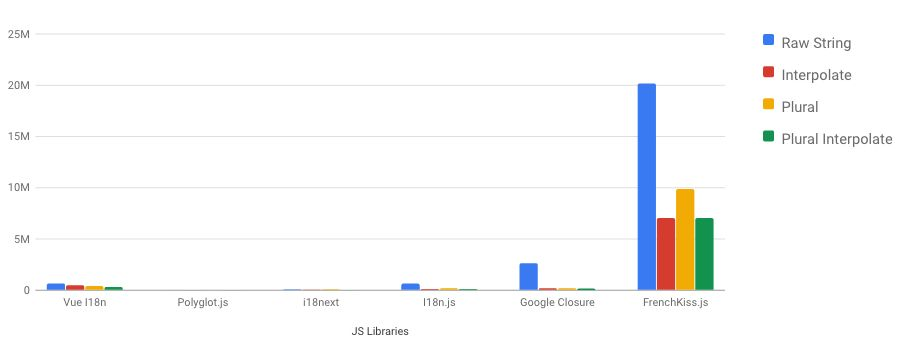
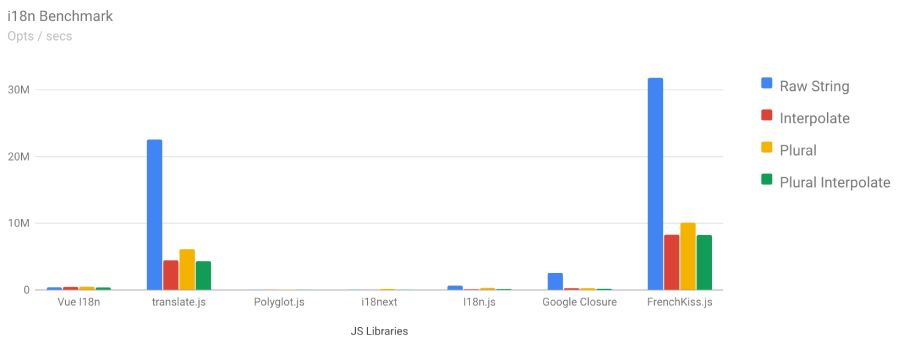
⚡  Improve table resolution performance
Thanks to #10

diff --git a/benchmark/result.html b/benchmark/result.html
@@ -16,7 +16,7 @@
   });
 
   google.charts.setOnLoadCallback(function() {
-    var data = google.visualization.arrayToDataTable([["JS Libraries","Raw String","Interpolate","Plural","Plural Interpolate"],["Vue I18n",937597.9691549347,621520.0905786989,796980.197485886,558772.3790447591],["translate.js",45628718.817707874,5078042.057101556,9887878.853139093,5195905.523545258],["Polyglot.js",37437.9866361863,32261.51126711705,35065.78723919533,32867.778490074386],["i18next",98762.52861366958,44846.718042469154,158507.1685834369,53331.03853381327],["I18n.js",933103.1220930708,140006.0411761704,424632.24457360385,150664.26550750234],["Google Closure",2625947.265724307,313545.32987506065,294208.2944537806,185298.38990789047],["FrenchKiss.js",28974747.66838699,10332328.059471618,13050900.347432066,9512977.148954853]]);
+    var data = google.visualization.arrayToDataTable([["JS Libraries","Raw String","Interpolate","Plural","Plural Interpolate"],["Vue I18n",462765.6182894607,533288.8007898631,571266.8775808453,443326.1475785786],["translate.js",22615973.167931475,4521676.532148845,6172038.016953489,4393833.074487673],["Polyglot.js",26416.511475684798,26292.866779009746,29060.199426648855,27350.94675397183],["i18next",73150.08665121584,37800.11059008172,133349.36795169843,38134.818818904256],["I18n.js",720800.3138867202,107974.0440440505,378258.25917576195,118317.36221304856],["Google Closure",2615583.874711804,338832.65385270974,269199.3921624748,173446.9254669773],["FrenchKiss.js",31856730.168599278,8364874.234366808,10159441.144196827,8305639.6259251945]]);
 
     new google.charts.Bar(document.body).draw(data, {
       chart: {

diff --git a/src/frenchkiss.js b/src/frenchkiss.js
@@ -37,21 +37,11 @@ let missingVariableHandler = () => '';
  * @param {String} language
  * @returns {Function|null}
  */
-const getCompiledCode = (key, language) => {
-  if (!cache[language]) {
-    cache[language] = {};
-  }
-
-  if (
-    !cache[language][key] &&
-    store[language] &&
-    typeof store[language][key] === 'string'
-  ) {
-    cache[language][key] = compileCode(store[language][key]);
-  }
-
-  return cache[language][key];
-};
+const getCompiledCode = (key, language) =>
+  (cache[language] && cache[language][key]) ||
+  (store[language] &&
+    typeof store[language][key] === 'string' &&
+    (cache[language][key] = compileCode(store[language][key])));
 
 /**
  * Get back translation and interpolate values stored in 'params' parameter
